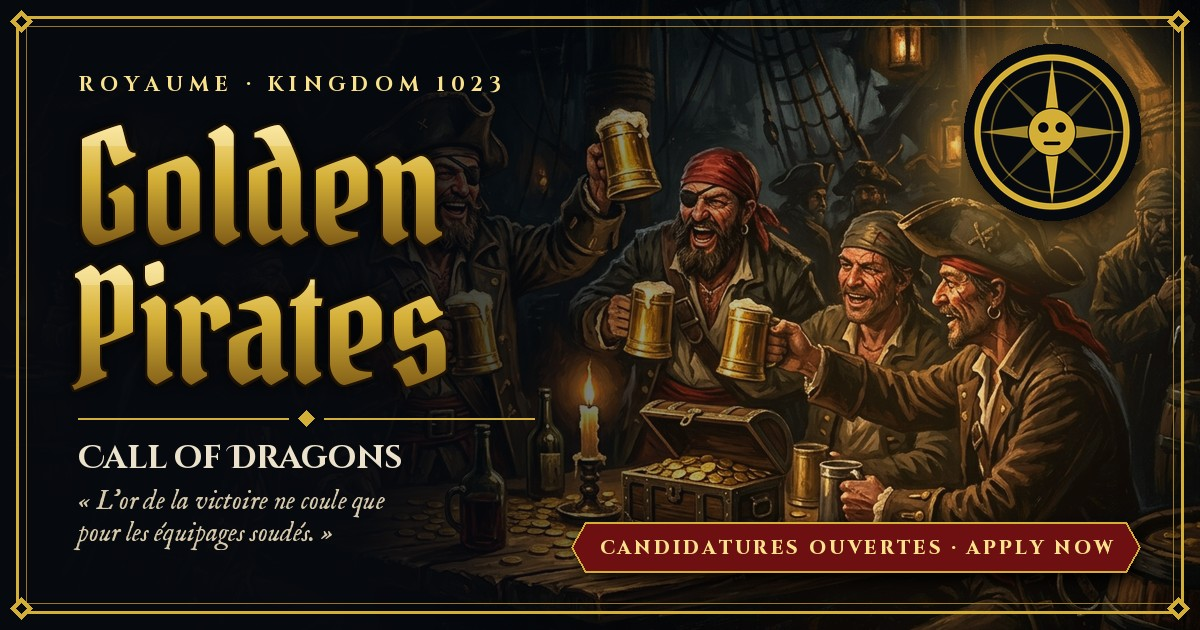
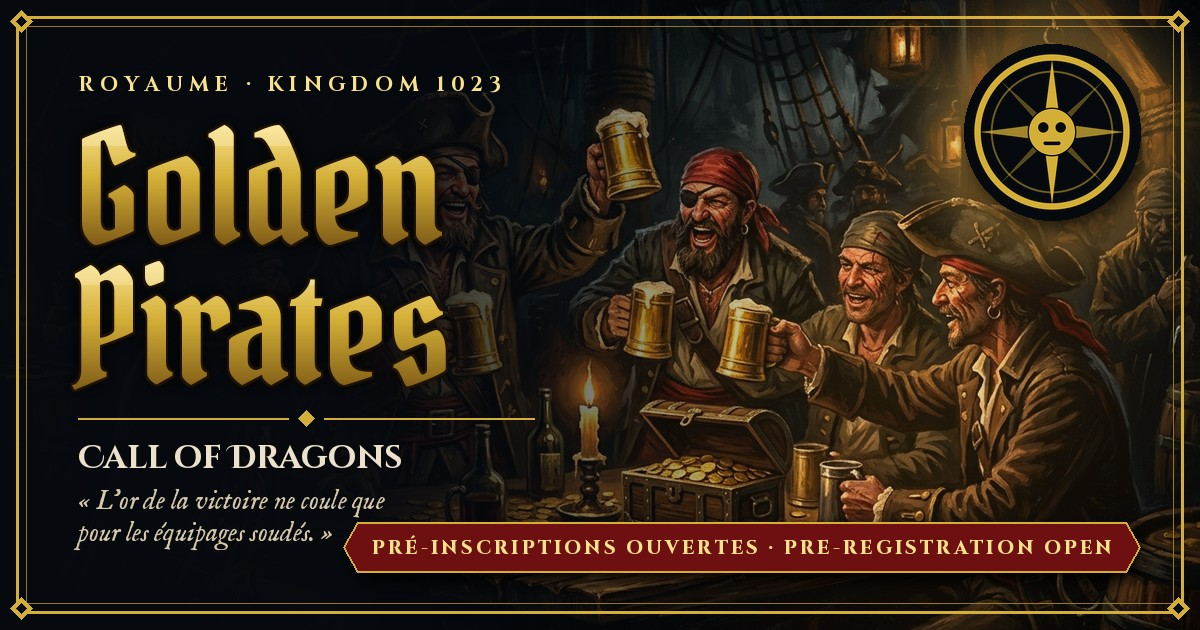
## Le site affiche maintenant « Pré-inscriptions ouvertes », puis passera seul à « Recrutement ouvert »
Tant que tu n'as pas la date officielle de fin de Saison 2, le site dit **« PRÉ-INSCRIPTIONS OUVERTES »**. Le jour où tu scelles cette date dans ton calendrier, tout passe à **« RECRUTEMENT OUVERT »**, sans redéploiement ni crédits. Tout a été testé à 100 % dans les deux états, en français et en anglais, sur mobile et ordinateur. Pour que ce soit en ligne sur golden-pirates.org, il faut cliquer sur **Deploy**.

**Ce qui change selon la date :**

| Endroit | Aujourd'hui, date pas encore connue | Dès que tu scelles la date officielle |
|---|---|---|
| Ticket du formulaire et de l'Espace Recrue | « OUVERTURE DES PORTES : DATE OFFICIELLE ANNONCÉE PROCHAINEMENT ✓ **PRÉ-INSCRIPTIONS OUVERTES** » | « OUVERTURE DES PORTES · J-xx · la date ✓ **RECRUTEMENT OUVERT** » |
| Texte « Monte à bord, marin » | « …Mais les pré-inscriptions sont déjà ouvertes… » | « La date officielle est tombée : le recrutement est ouvert… » |
| Image de partage (Discord, WhatsApp…) | bandeau « PRÉ-INSCRIPTIONS OUVERTES · PRE-REGISTRATION OPEN » | bandeau « RECRUTEMENT OUVERT · RECRUITMENT OPEN » |
| En anglais | « PRE-REGISTRATION OPEN » | « RECRUITMENT OPEN » |

**Deux autres changements :**
- **Message d'accueil des visiteurs :** « L'ÉQUIPAGE RECRUTE » devient **« REJOINS L'ÉQUIPAGE »**, qui reste vrai avant comme après la date officielle.
- **Le jour J**, quand la date est atteinte, le ticket passe au vert : « PORTES OUVERTES — LE CONSEIL EMBARQUE ».
[…]

Changed region(s): [[0.2775, 0.8143, 0.925, 0.9349]]

diff --git a/frontend/src/lib/i18n.jsx b/frontend/src/lib/i18n.jsx
@@ -73,7 +73,7 @@ const fr = {
   },
   pirate: {
     welcome: {
-      visitor: "UN NAVIRE EN VUE — L'ÉQUIPAGE RECRUTE",
+      visitor: "UN NAVIRE EN VUE — REJOINS L'ÉQUIPAGE",
       recruit: (p) => `BON RETOUR À BORD, ${p}`,
       council: "CAPITAINE SUR LE PONT — LE NAVIRE T'ATTEND",
     },
@@ -204,7 +204,8 @@ const fr = {
     eyebrow: "Le rôle d'équipage — 05",
     title1: "Monte à bord, ",
     titleGold: "marin",
-    intro: "Les portes du Royaume 1023 ne s'ouvrent qu'à la fin de la Saison 2 — loi de migration de Call of Dragons, aucun capitaine n'y déroge. Mais le rôle d'équipage est déjà ouvert : scelle ton serment maintenant, ta bouteille sera la première repêchée par le Conseil.",
+    intro: "Les portes du Royaume 1023 ne s'ouvrent qu'à la fin de la Saison 2 — loi de migration de Call of Dragons, aucun capitaine n'y déroge. Mais les pré-inscriptions sont déjà ouvertes : scelle ton serment maintenant, ta bouteille sera la première repêchée par le Conseil.",
+    introRecruit: "La date officielle est tombée : le recrutement est ouvert pour la fin de la Saison 2 — loi de migration de Call of Dragons. Scelle ton serment maintenant, le Conseil embarque les meilleurs marins en premier.",
     migrationBanner: "LOI DE MIGRATION : LES PORTES N'OUVRENT QU'EN FIN DE SAISON 2",
     bullets: [
       "Puissance visée : {MIN} à {MAX}+ — Article I du Code",
@@ -372,7 +373,7 @@ const fr = {
     },
     s2Unknown: {
       eyebrow: "LA SAISON 2 EST LANCÉE",
-      title: "Les portes de migration ouvriront en fin de Saison 2 — la date sera annoncée ici dès que le jeu la publie. Le rôle d'équipage reste ouvert : dépose ta candidature maintenant, elle sera traitée en priorité.",
+      title: "Les portes de migration ouvriront en fin de Saison 2 — la date sera annoncée ici dès que le jeu la publie. Les pré-inscriptions restent ouvertes : dépose ta candidature maintenant, elle sera traitée en priorité.",
       line: "SAISON 2 EN COURS · PORTES : FIN DE SAISON (DATE À VENIR)",
     },
     open: {
@@ -382,8 +383,9 @@ const fr = {
     },
     recruit: {
       gates: "OUVERTURE DES PORTES",
-      unknown: "DATE ANNONCÉE PROCHAINEMENT",
-      applyNow: "CANDIDATURES DÉJÀ OUVERTES",
+      unknown: "DATE OFFICIELLE ANNONCÉE PROCHAINEMENT",
+      applyNow: "PRÉ-INSCRIPTIONS OUVERTES",
+      recruitOpen: "RECRUTEMENT OUVERT",
       hint: "La date d'ouverture des portes (fin de Saison 2) sera affichée ici dès que le jeu l'annonce.",
     },
     openCta: "POSTULER MAINTENANT",
@@ -849,7 +851,7 @@ const en = {
   },
   pirate: {
     welcome: {
-      visitor: "SHIP AHOY — THE CREW IS RECRUITING",
+      visitor: "SHIP AHOY — JOIN THE CREW",
       recruit: (p) => `WELCOME BACK ABOARD, ${p}`,
       council: "CAPTAIN ON DECK — THE SHIP AWAITS",
     },
@@ -980,7 +982,8 @@ const en = {
     eyebrow: "The crew roll — 05",
     title1: "Come aboard, ",
     titleGold: "sailor",
-    intro: "The gates of Kingdom 1023 only open at the end of Season 2 — Call of Dragons' migration law, no captain escapes it. But the crew roll is already open: seal your oath now and your bottle will be the first the Council fishes out.",
+    intro: "The gates of Kingdom 1023 only open at the end of Season 2 — Call of Dragons' migration law, no captain escapes it. But pre-registration is already open: seal your oath now and your bottle will be the first the Council fishes out.",
+    introRecruit: "The official date is out: recruitment is open for the end of Season 2 — Call of Dragons' migration law. Seal your oath now, the Council boards the best sailors first.",
     migrationBanner: "MIGRATION LAW: THE GATES ONLY OPEN AT THE END OF SEASON 2",
     bullets: [
       "Target power: {MIN} to {MAX}+ — Article I of the Code",
@@ -1148,7 +1151,7 @@ const en = {
     },
     s2Unknown: {
       eyebrow: "SEASON 2 HAS BEGUN",
-      title: "The migration gates will open at the end of Season 2 — the date will be announced here as soon as the game publishes it. The crew roll stays open: apply now, your file will be handled first.",
+      title: "The migration gates will open at the end of Season 2 — the date will be announced here as soon as the game publishes it. Pre-registration stays open: apply now, your file will be handled first.",
       line: "SEASON 2 UNDERWAY · GATES: END OF SEASON (DATE TO COME)",
     },
     open: {
@@ -1158,8 +1161,9 @@ const en = {
     },
     recruit: {
       gates: "GATES OPEN",
-      unknown: "DATE ANNOUNCED SOON",
-      applyNow: "APPLICATIONS ALREADY OPEN",
+      unknown: "OFFICIAL DATE ANNOUNCED SOON",
+      applyNow: "PRE-REGISTRATION OPEN",
+      recruitOpen: "RECRUITMENT OPEN",
       hint: "The gates opening date (end of Season 2) will be shown here as soon as the game announces it.",
     },
     openCta: "APPLY NOW",

diff --git a/frontend/public/index.html b/frontend/public/index.html
@@ -84,17 +84,17 @@
       property="og:description"
       content="Hissez le pavillon noir : l'alliance souveraine du Royaume 1023 recrute ses marins. Équipage soudé, KvK coordonnés — candidature en ligne. Raise the black flag: apply online."
     />
-    <meta property="og:image" content="https://golden-pirates.org/og-golden-pirates.jpg?v=3" />
-    <meta property="og:image:secure_url" content="https://golden-pirates.org/og-golden-pirates.jpg?v=3" />
+    <meta property="og:image" content="https://golden-pirates.org/api/og-image.jpg?v=4" />
+    <meta property="og:image:secure_url" content="https://golden-pirates.org/api/og-image.jpg?v=4" />
     <meta property="og:image:type" content="image/jpeg" />
     <meta property="og:image:width" content="1200" />
     <meta property="og:image:height" content="630" />
-    <meta property="og:image:alt" content="GOLDEN PIRATES — l'équipage trinque autour du coffre au trésor, logo étoile-boussole dorée, candidatures ouvertes du Royaume 1023" />
+    <meta property="og:image:alt" content="GOLDEN PIRATES — l'équipage trinque autour du coffre au trésor, logo étoile-boussole dorée, alliance du Royaume 1023" />
     <meta property="og:locale" content="fr_FR" />
     <meta property="og:locale:alternate" content="en_US" />
     <meta name="twitter:card" content="summary_large_image" />
-    <meta name="twitter:image" content="https://golden-pirates.org/og-golden-pirates.jpg?v=3" />
-    <meta name="twitter:image:alt" content="GOLDEN PIRATES — l'équipage trinque autour du coffre au trésor, candidatures ouvertes du Royaume 1023" />
+    <meta name="twitter:image" content="https://golden-pirates.org/api/og-image.jpg?v=4" />
+    <meta name="twitter:image:alt" content="GOLDEN PIRATES — l'équipage trinque autour du coffre au trésor, alliance du Royaume 1023" />
     <meta name="twitter:title" content="GOLDEN PIRATES — Royaume / Kingdom 1023 · Call of Dragons" />
     <meta
       name="twitter:description"
@@ -111,7 +111,7 @@
             "alternateName": ["Golden Pirates — Royaume 1023", "Golden Pirates — Kingdom 1023"],
             "url": "https://golden-pirates.org/",
             "logo": "https://golden-pirates.org/icon-512.png?v=3",
-            "image": "https://golden-pirates.org/og-golden-pirates.jpg?v=3",
+            "image": "https://golden-pirates.org/api/og-image.jpg?v=4",
             "email": "golden.pirates@outlook.fr",
             "description": "Alliance souveraine du Royaume 1023 de Call of Dragons. Recrutement de marins pour la fin de la Saison 2.",
             "slogan": "L'or de la victoire ne coule que pour les équipages soudés."

diff --git a/frontend/src/components/ApplyForm.jsx b/frontend/src/components/ApplyForm.jsx
@@ -14,6 +14,7 @@ import { Checkbox } from "@/components/ui/checkbox";
 import { saveBottle } from "@/lib/rack";
 import useRole from "@/lib/role";
 import { smoothScrollTo, lockScroll, unlockScroll } from "@/lib/scroll";
+import useSeason from "@/lib/season";
 
 const EASE = [0.16, 1, 0.3, 1];
 const DRAFT_KEY = "gp_apply_draft";
@@ -242,6 +243,7 @@ function RolePanel({ role, latest, c, s, navigate, onOverride, stats, panelRef }
 
 export default function ApplyForm() {
   const { c, lang } = useLang();
+  const season = useSeason();
   const s = c.apply;
   const w = s.wizard;
   const navigate = useNavigate();
@@ -500,7 +502,7 @@ export default function ApplyForm() {
                 <Countdown variant="line" testid="apply-countdown" />
               </div>
             </div>
-            <p className="font-fell text-base sm:text-lg text-bone/80 leading-relaxed mb-6">{s.intro}</p>
+            <p data-testid="apply-intro" className="font-fell text-base sm:text-lg text-bone/80 leading-relaxed mb-6">{season.recruit_open ? s.introRecruit : s.intro}</p>
 
             <button
               type="button"

diff --git a/frontend/src/components/Countdown.jsx b/frontend/src/components/Countdown.jsx
@@ -125,6 +125,9 @@ export default function Countdown({ variant = "hero", testid = "countdown" }) {
             J-{left.d} · {String(left.h).padStart(2, "0")}H{String(left.m).padStart(2, "0")}
           </span>
           <span className="whitespace-nowrap text-mist">· {formatSeasonDate(season.recruit_open, lang)}</span>
+          <span data-testid={`${testid}-status`} className="inline-flex items-center gap-1.5 whitespace-nowrap text-emerald-300">
+            <Check className="w-3.5 h-3.5" /> {r.recruitOpen}
+          </span>
         </p>
       );
     }
@@ -133,7 +136,7 @@ export default function Countdown({ variant = "hero", testid = "countdown" }) {
         <Hourglass className="w-3.5 h-3.5 text-gold shrink-0" />
         <span>{r.gates} : {r.unknown}</span>
         <span className="inline-flex items-center gap-1.5 whitespace-nowrap text-emerald-300">
-          <Check className="w-3.5 h-3.5" /> {r.applyNow}
+          <Check className="w-3.5 h-3.5" /> <span data-testid={`${testid}-status`}>{r.applyNow}</span>
         </span>
       </p>
     );

diff --git a/frontend/src/lib/Seo.jsx b/frontend/src/lib/Seo.jsx
@@ -9,8 +9,8 @@ const BASE_TITLE_EN = "GOLDEN PIRATES — Pirate alliance of Kingdom 1023 · Cal
 const BASE_DESC_EN =
   "Raise the black flag with GOLDEN PIRATES, the sovereign alliance of Kingdom 1023 in Call of Dragons. A tight crew, coordinated KvK: apply online today.";
 const CANONICAL_BASE = "https://golden-pirates.org";
-const OG_IMAGE = "https://golden-pirates.org/og-golden-pirates.jpg?v=3";
-const OG_ALT = "GOLDEN PIRATES — l'équipage trinque autour du coffre au trésor, logo étoile-boussole dorée, candidatures ouvertes du Royaume 1023";
+const OG_IMAGE = "https://golden-pirates.org/api/og-image.jpg?v=4";
+const OG_ALT = "GOLDEN PIRATES — l'équipage trinque autour du coffre au trésor, logo étoile-boussole dorée, alliance du Royaume 1023";
 
 const ROUTES = {
   "/suivi": {

diff --git a/scripts/og/make_og.py b/scripts/og/make_og.py
@@ -1,7 +1,7 @@
 """Génère l'image de partage (Open Graph) + les icônes GOLDEN PIRATES.
 Base : illustration du site (feast-pirates.png). Polices : celles du site (OFL)."""
 from PIL import Image, ImageDraw, ImageFont, ImageFilter, ImageEnhance
-import math, random
+import math, random, os
 
 F = "/app/scripts/og/fonts/"
 PUB = "/app/frontend/public/"
@@ -226,7 +226,7 @@ d.text((X, 516), "pour les équipages soudés. »", font=f_tag, fill=(214, 200, 
 
 # bandeau recrutement (coin bas droit)
 f_pl = font("Cinzel.ttf", 19, 800)
-label = "CANDIDATURES OUVERTES · APPLY NOW"
+label = os.environ.get("OG_LABEL", "PRÉ-INSCRIPTIONS OUVERTES · PRE-REGISTRATION OPEN")
 pw = tracked_width(d, label, f_pl, 3) + 56
 px1, py1 = W - 60 - pw, H - 108
 px2, py2 = W - 60, H - 58
@@ -252,7 +252,7 @@ d.ellipse([mx, my, mx + MS, my + MS], fill=INK)
 logo = render_logo(MS - 12)
 bg.paste(logo, (mx + 6, my + 6), logo)
 
-bg.save(PUB + "og-golden-pirates.jpg", "JPEG", quality=90, optimize=True, progressive=True)
+bg.save(PUB + os.environ.get("OG_OUT", "og-golden-pirates.jpg"), "JPEG", quality=90, optimize=True, progressive=True)
 print("og ok", bg.size)
 
 # ---------------------------------------------------------------- ICÔNES

diff --git a/backend/server.py b/backend/server.py
@@ -1308,6 +1308,19 @@ async def season_set(data: SeasonIn, _=Depends(require_admin)):
     return {"ok": True, "s2_start": s2, "recruit_open": ro}
 
 
+# Image de partage (Discord, WhatsApp, Facebook…) qui suit le calendrier du Conseil :
+# date officielle de fin de Saison 2 scellée → « RECRUTEMENT OUVERT », sinon « PRÉ-INSCRIPTIONS OUVERTES ».
+_OG_DIR = Path(__file__).parent / "static" / "og"
+
+
+@api_router.get("/og-image.jpg")
+async def og_image():
+    from fastapi.responses import FileResponse
+    season = await get_season()
+    name = "og-recrutement.jpg" if season.get("recruit_open") else "og-preinscription.jpg"
+    return FileResponse(_OG_DIR / name, media_type="image/jpeg", headers={"Cache-Control": "public, max-age=1800"})
+
+
 # ---------- Factures de don (parchemin pirate PDF / Excel, FR/EN) ----------
 from donations_invoice import (
     generate_invoice_pdf,

diff --git a/memory/PRD.md b/memory/PRD.md
@@ -209,3 +209,9 @@ Choix confirmés : thème « jamais vu » 100% pirates et impressionnant ; formu
 - Bug de date : 31/10 23:59:59 UTC s'affichait « 1 novembre » en France → défaut s2_start = 2026-10-31T22:59:00Z (31/10 23:59 Paris) + toutes les dates de saison formatées en Europe/Paris.
 - Le compte à rebours du début de Saison 2 ne vit plus que dans la frise (« DÈS LE 31 OCTOBRE 2026 · J-11 »).
 - Agent de test iteration_51 : OK ; remarque FR/EN = faux positif (mauvais sélecteur), vérifié : EN « GATES OPEN : DATE ANNOUNCED SOON · APPLICATIONS ALREADY OPEN ». Calendrier réel restauré.
+
+## 2026-10-20 — « PRÉ-INSCRIPTIONS OUVERTES » → « RECRUTEMENT OUVERT » automatique
+- Règle : tant que la date officielle de fin de Saison 2 (recruit_open) n'est pas scellée dans le Calendrier des saisons → « PRÉ-INSCRIPTIONS OUVERTES » ; dès qu'elle l'est → « RECRUTEMENT OUVERT » (ticket formulaire + /suivi, intro du formulaire apply-intro / introRecruit, plaque Saison 2, FR/EN).
+- Bandeau visiteur neutre « UN NAVIRE EN VUE — REJOINS L'ÉQUIPAGE ».
+- Image de partage dynamique : GET /api/og-image.jpg sert backend/static/og/og-preinscription.jpg ou og-recrutement.jpg selon le calendrier ; og:image / twitter:image / Seo.jsx = /api/og-image.jpg?v=4 ; make_og.py paramétrable (OG_LABEL, OG_OUT).
+- Agent de test iteration_52 : 100 %. Calendrier réel restauré (s2 31/10 23:59 Paris, fin S2 non annoncée).
